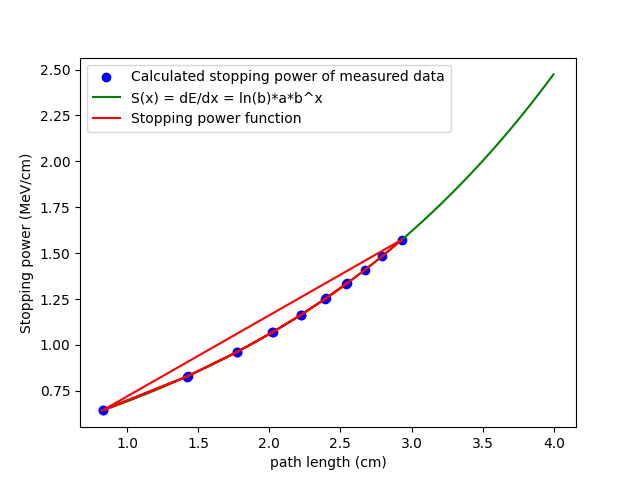
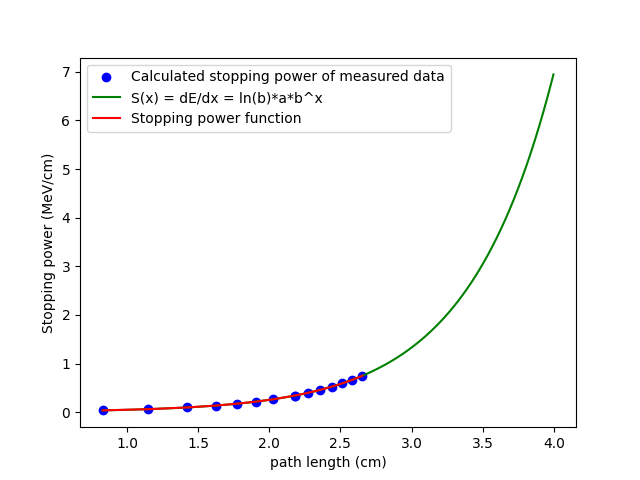
added helium measurements

diff --git a/src/alpha/alpha_ray.py b/src/alpha/alpha_ray.py
@@ -379,31 +379,31 @@ def measurement_helium():
 
     argon_vacuum = Measurement("meting 4- alfa bron argon 21 mbar.csv", end_point=1000, pressure_start = helium_start_list[0], pressure_end=helium_end_list[0])
     argon_vacuum.data_fit(start_expmu=0.05, start_gauss1_mu=0.2)
-    # argon_vacuum.data_plot()
+    argon_vacuum.data_plot()
 
     helium_50mbar = Measurement("meting 5- alfa bron helium 50 mbar.csv", end_point=1000, pressure_start = helium_start_list[1], pressure_end=helium_end_list[1])
     helium_50mbar.data_fit(start_expmu=0.05, start_gauss1_mu=0.18)
-    # helium_50mbar.data_plot()
+    helium_50mbar.data_plot()
 
     helium_100mbar = Measurement("meting 5- alfa bron helium 100 mbar.csv", end_point=1000, pressure_start = helium_start_list[2], pressure_end=helium_end_list[2])
     helium_100mbar.data_fit(start_expmu=0.05, start_gauss1_mu=0.2)
-    # helium_100mbar.data_plot()
+    helium_100mbar.data_plot()
 
     helium_150mbar = Measurement("meting 5- alfa bron helium 150 mbar.csv", end_point=1000, pressure_start = helium_start_list[3], pressure_end=helium_end_list[3])
     helium_150mbar.data_fit(start_expmu=0.05, start_gauss1_mu=0.18)
-    # helium_150mbar.data_plot()
+    helium_150mbar.data_plot()
 
     helium_200mbar = Measurement("meting 5- alfa bron helium 200 mbar.csv", end_point=1000, pressure_start = helium_start_list[4], pressure_end=helium_end_list[4])
     helium_200mbar.data_fit(start_expmu=0.025, start_gauss1_mu=0.17)
-    # helium_200mbar.data_plot()
+    helium_200mbar.data_plot()
 
     helium_250mbar = Measurement("meting 5- alfa bron helium 250 mbar.csv", end_point=1000, pressure_start = helium_start_list[5], pressure_end=helium_end_list[5])
     helium_250mbar.data_fit(start_expmu=0.025, start_gauss1_mu=0.16)
-    # helium_250mbar.data_plot()
+    helium_250mbar.data_plot()
 
     helium_300mbar = Measurement("meting 5- alfa bron helium 300 mbar.csv", end_point=1000, pressure_start = helium_start_list[6], pressure_end=helium_end_list[6])
     helium_300mbar.data_fit(start_expmu=0.05, start_gauss1_mu=0.14)
-    # helium_300mbar.data_plot()
+    helium_300mbar.data_plot()
 
     helium_350mbar = Measurement("meting 5- alfa bron helium 350 mbar.csv", end_point=1000, pressure_start = helium_start_list[7], pressure_end=helium_end_list[7])
     helium_350mbar.data_fit(start_expmu=0.05, start_gauss1_mu=0.13)
@@ -445,8 +445,9 @@ def measurement_helium():
 def run():
     """Runs measurements with different gasses
     """    
-    measurement_air()
-    measurement_argon()
+    # measurement_air()
+    # measurement_argon()
+    measurement_helium()
 
 
 if __name__ == "__main__":
